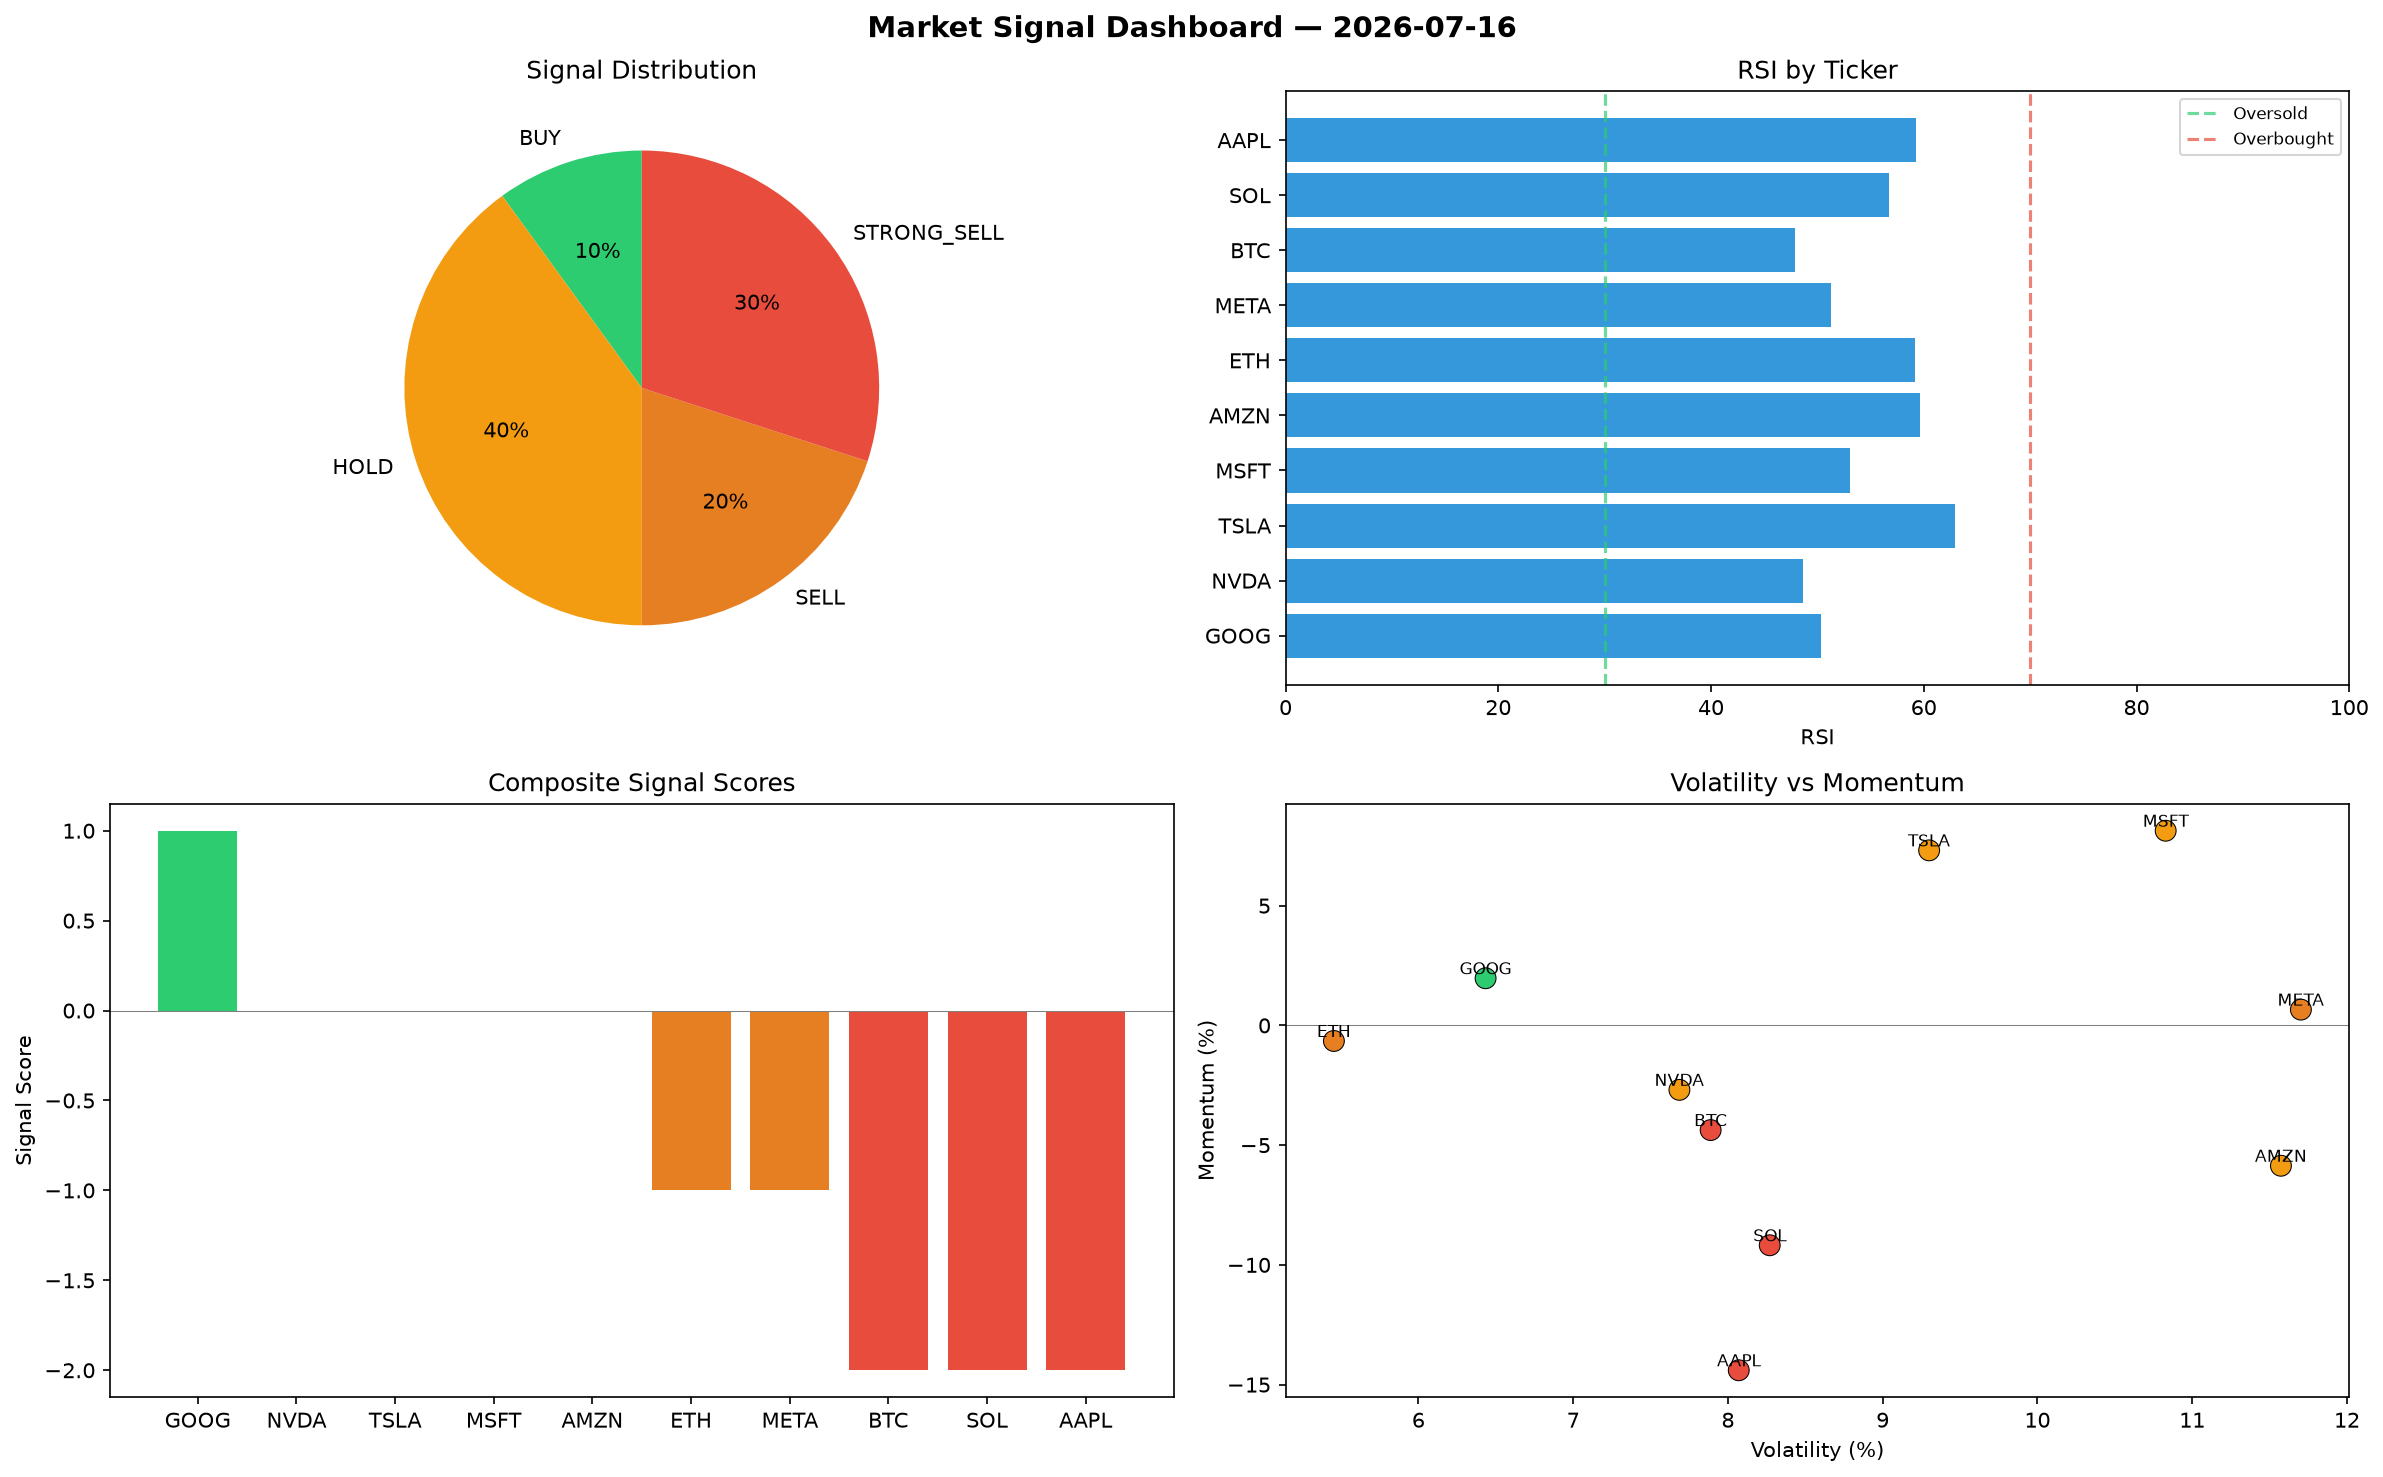
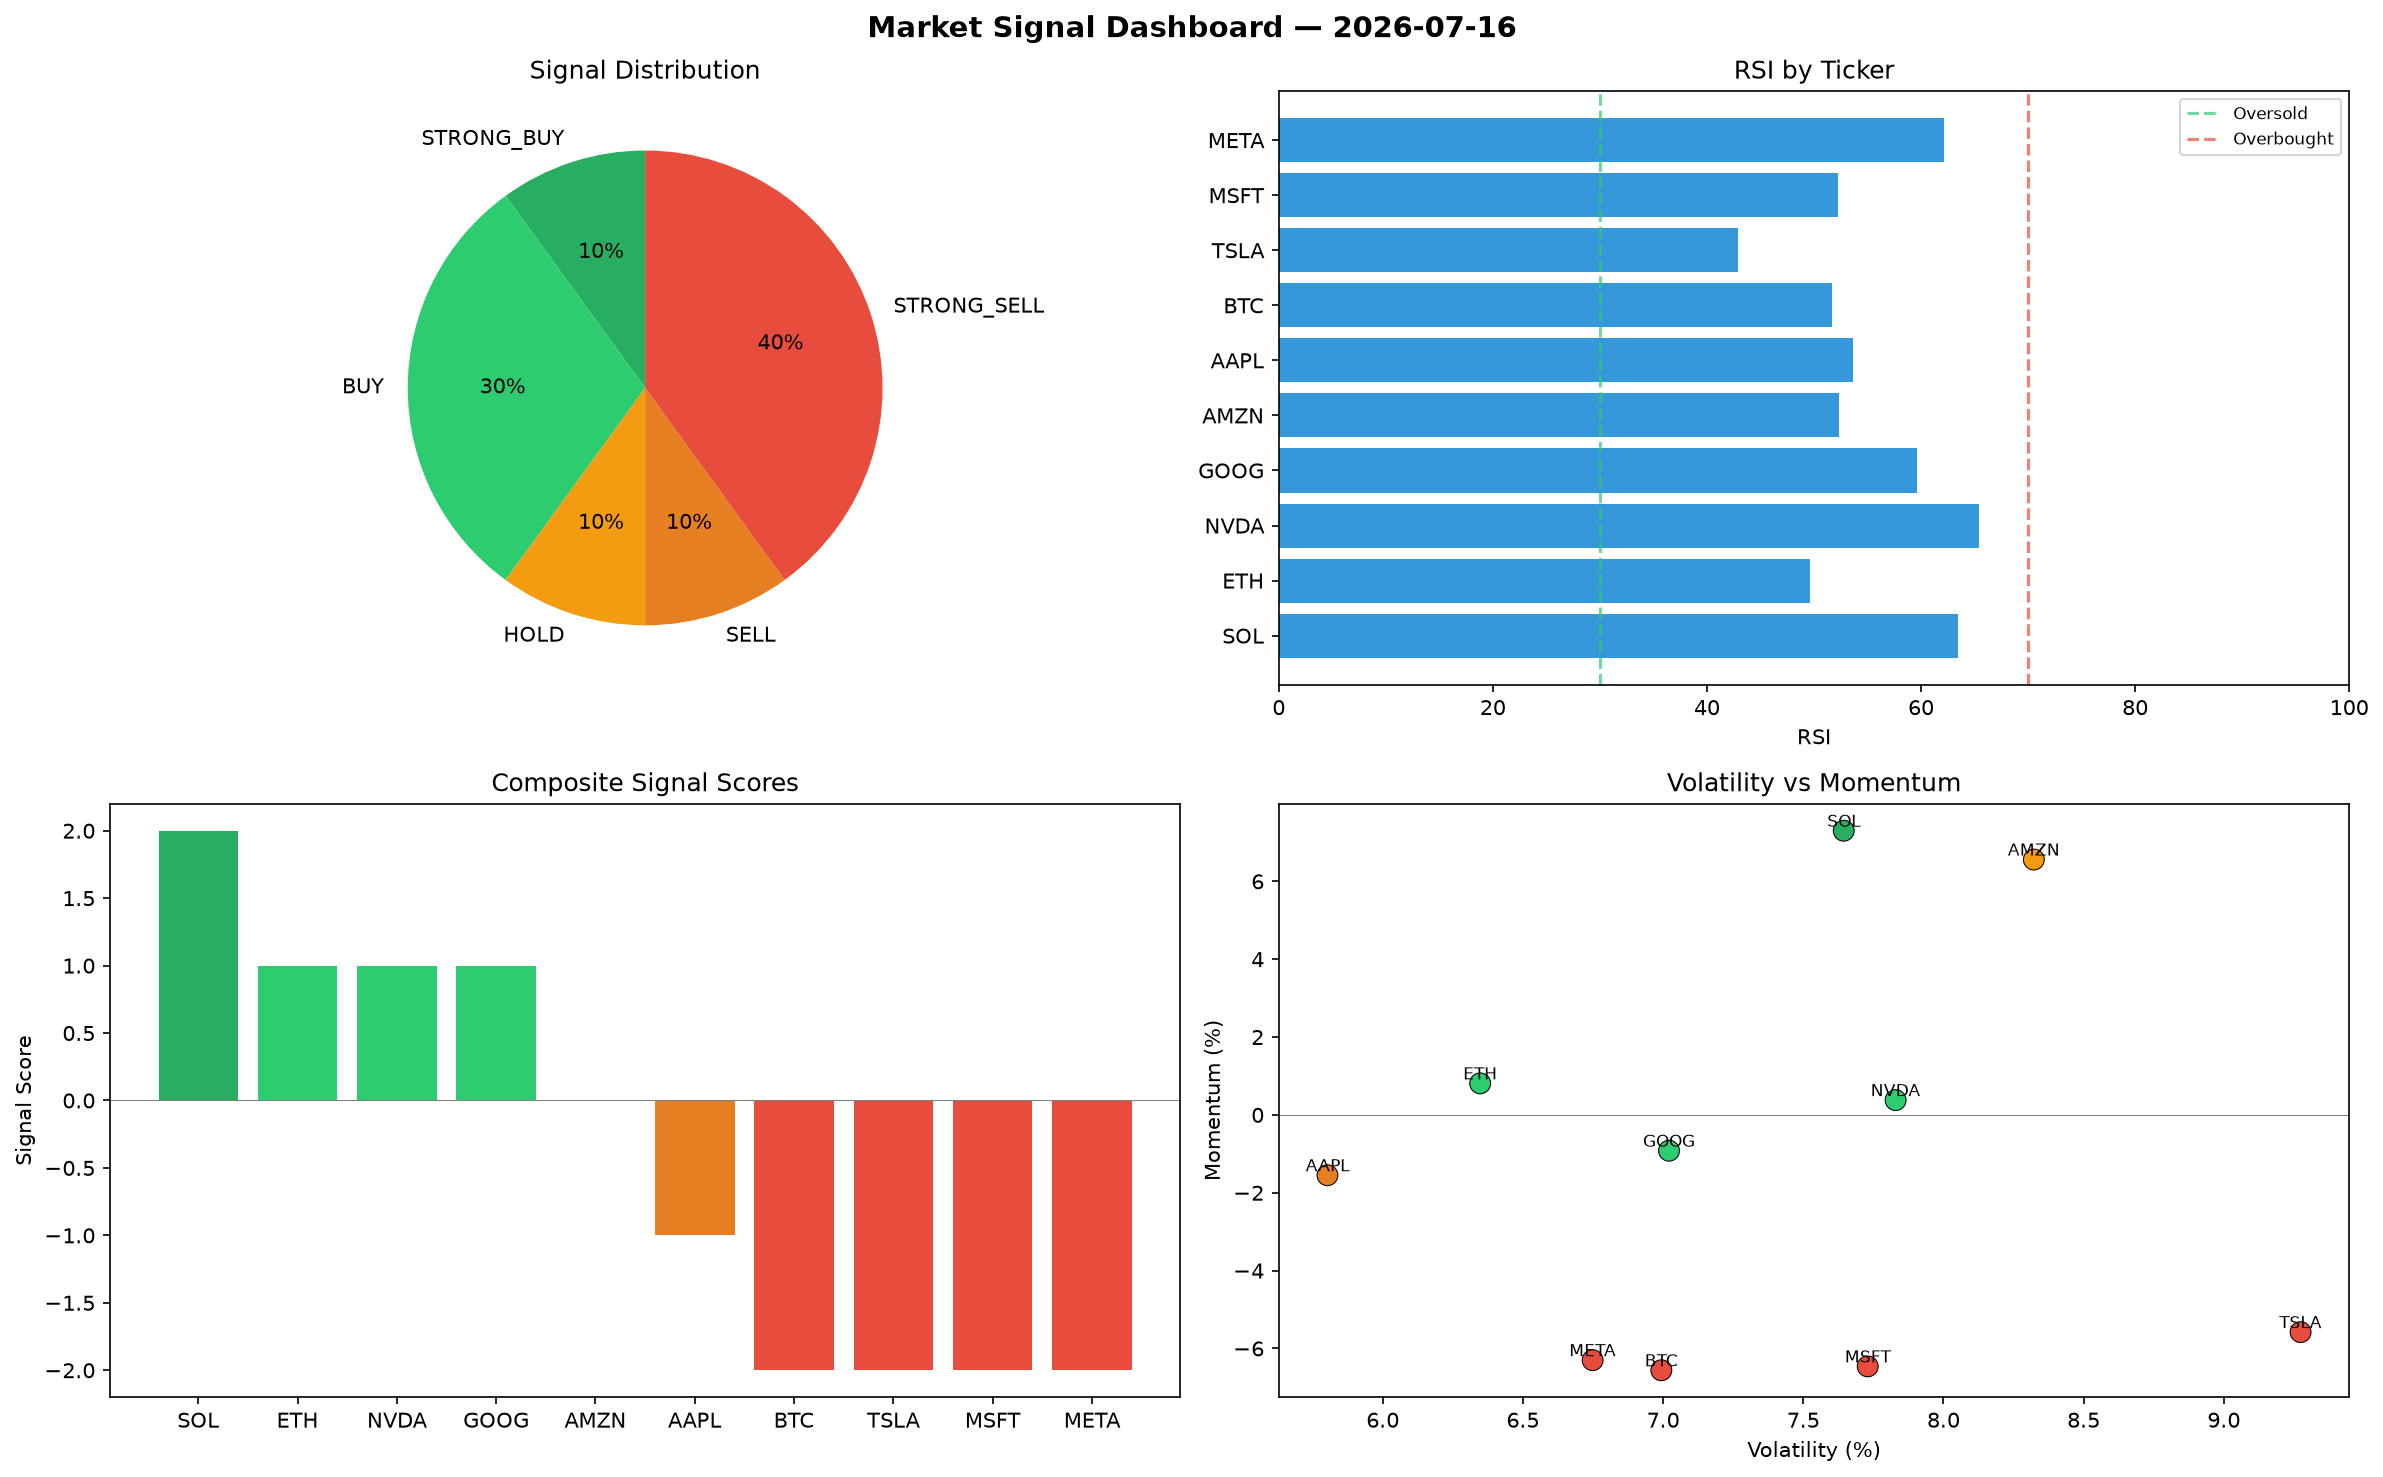
automated-bots: market signals 2026-07-16T15:55

diff --git a/logs/2026-07-16.md b/logs/2026-07-16.md
@@ -1,6 +1,6 @@
 # Market Signal Report — 2026-07-16
 
-**Run ID:** `3677faed56` | **Buy:** 1 | **Sell:** 5 | **Hold:** 4
+**Run ID:** `c64526f2ba` | **Buy:** 4 | **Sell:** 5 | **Hold:** 1
 
 ![Dashboard](2026-07-16_dashboard.png)
 
@@ -8,28 +8,28 @@
 
 | Ticker | Price | Signal | Score | RSI | Momentum | Confidence |
 |--------|-------|--------|-------|-----|----------|------------|
-| GOOG | $1529.44 | **BUY** | 1 | 50.3 | 0.0197 | 0.25 |
-| NVDA | $3151.79 | **HOLD** | 0 | 48.64 | -0.0269 | 0.0 |
-| TSLA | $4511.19 | **HOLD** | 0 | 62.89 | 0.0731 | 0.0 |
-| MSFT | $4841.26 | **HOLD** | 0 | 53.08 | 0.0813 | 0.0 |
-| AMZN | $1703.98 | **HOLD** | 0 | 59.67 | -0.0586 | 0.0 |
-| ETH | $1225.22 | **SELL** | -1 | 59.14 | -0.0065 | 0.25 |
-| META | $3605.65 | **SELL** | -1 | 51.3 | 0.0066 | 0.25 |
-| BTC | $907.51 | **STRONG_SELL** | -2 | 47.93 | -0.0437 | 0.5 |
-| SOL | $428.92 | **STRONG_SELL** | -2 | 56.71 | -0.0918 | 0.5 |
-| AAPL | $2149.95 | **STRONG_SELL** | -2 | 59.3 | -0.144 | 0.5 |
+| SOL | $4381.03 | **STRONG_BUY** | 2 | 63.45 | 0.073 | 0.5 |
+| ETH | $2033.78 | **BUY** | 1 | 49.62 | 0.0081 | 0.25 |
+| NVDA | $1455.24 | **BUY** | 1 | 65.39 | 0.0038 | 0.25 |
+| GOOG | $4183.29 | **BUY** | 1 | 59.61 | -0.0092 | 0.25 |
+| AMZN | $4291.68 | **HOLD** | 0 | 52.35 | 0.0656 | 0.0 |
+| AAPL | $178.86 | **SELL** | -1 | 53.65 | -0.0155 | 0.25 |
+| BTC | $992.65 | **STRONG_SELL** | -2 | 51.72 | -0.0656 | 0.5 |
+| TSLA | $1373.01 | **STRONG_SELL** | -2 | 42.92 | -0.0558 | 0.5 |
+| MSFT | $1007.01 | **STRONG_SELL** | -2 | 52.22 | -0.0646 | 0.5 |
+| META | $2705.58 | **STRONG_SELL** | -2 | 62.12 | -0.063 | 0.5 |
 
 ## Delta vs Yesterday
 
 | Ticker | Today | Yesterday | Price Change | Signal Changed |
 |--------|-------|-----------|-------------|----------------|
-| GOOG | BUY | STRONG_SELL | 📈 9.74% | ⚠ YES |
-| NVDA | HOLD | STRONG_BUY | 📉 -19.61% | ⚠ YES |
-| TSLA | HOLD | STRONG_SELL | 📈 461.65% | ⚠ YES |
-| MSFT | HOLD | STRONG_SELL | 📈 97.51% | ⚠ YES |
-| AMZN | HOLD | STRONG_SELL | 📉 -51.04% | ⚠ YES |
-| ETH | SELL | STRONG_SELL | 📉 -53.45% | ⚠ YES |
-| META | SELL | SELL | 📈 102.41% | — |
-| BTC | STRONG_SELL | BUY | 📉 -82.03% | ⚠ YES |
-| SOL | STRONG_SELL | SELL | 📉 -85.39% | ⚠ YES |
-| AAPL | STRONG_SELL | STRONG_BUY | 📉 -37.53% | ⚠ YES |
+| SOL | STRONG_BUY | SELL | 📈 49.22% | ⚠ YES |
+| ETH | BUY | STRONG_SELL | 📉 -22.73% | ⚠ YES |
+| NVDA | BUY | STRONG_BUY | 📉 -62.88% | ⚠ YES |
+| GOOG | BUY | STRONG_SELL | 📈 200.16% | ⚠ YES |
+| AMZN | HOLD | STRONG_SELL | 📈 23.32% | ⚠ YES |
+| AAPL | SELL | STRONG_BUY | 📉 -94.8% | ⚠ YES |
+| BTC | STRONG_SELL | BUY | 📉 -80.34% | ⚠ YES |
+| TSLA | STRONG_SELL | STRONG_SELL | 📈 70.94% | — |
+| MSFT | STRONG_SELL | STRONG_SELL | 📉 -58.92% | — |
+| META | STRONG_SELL | SELL | 📈 51.88% | ⚠ YES |
